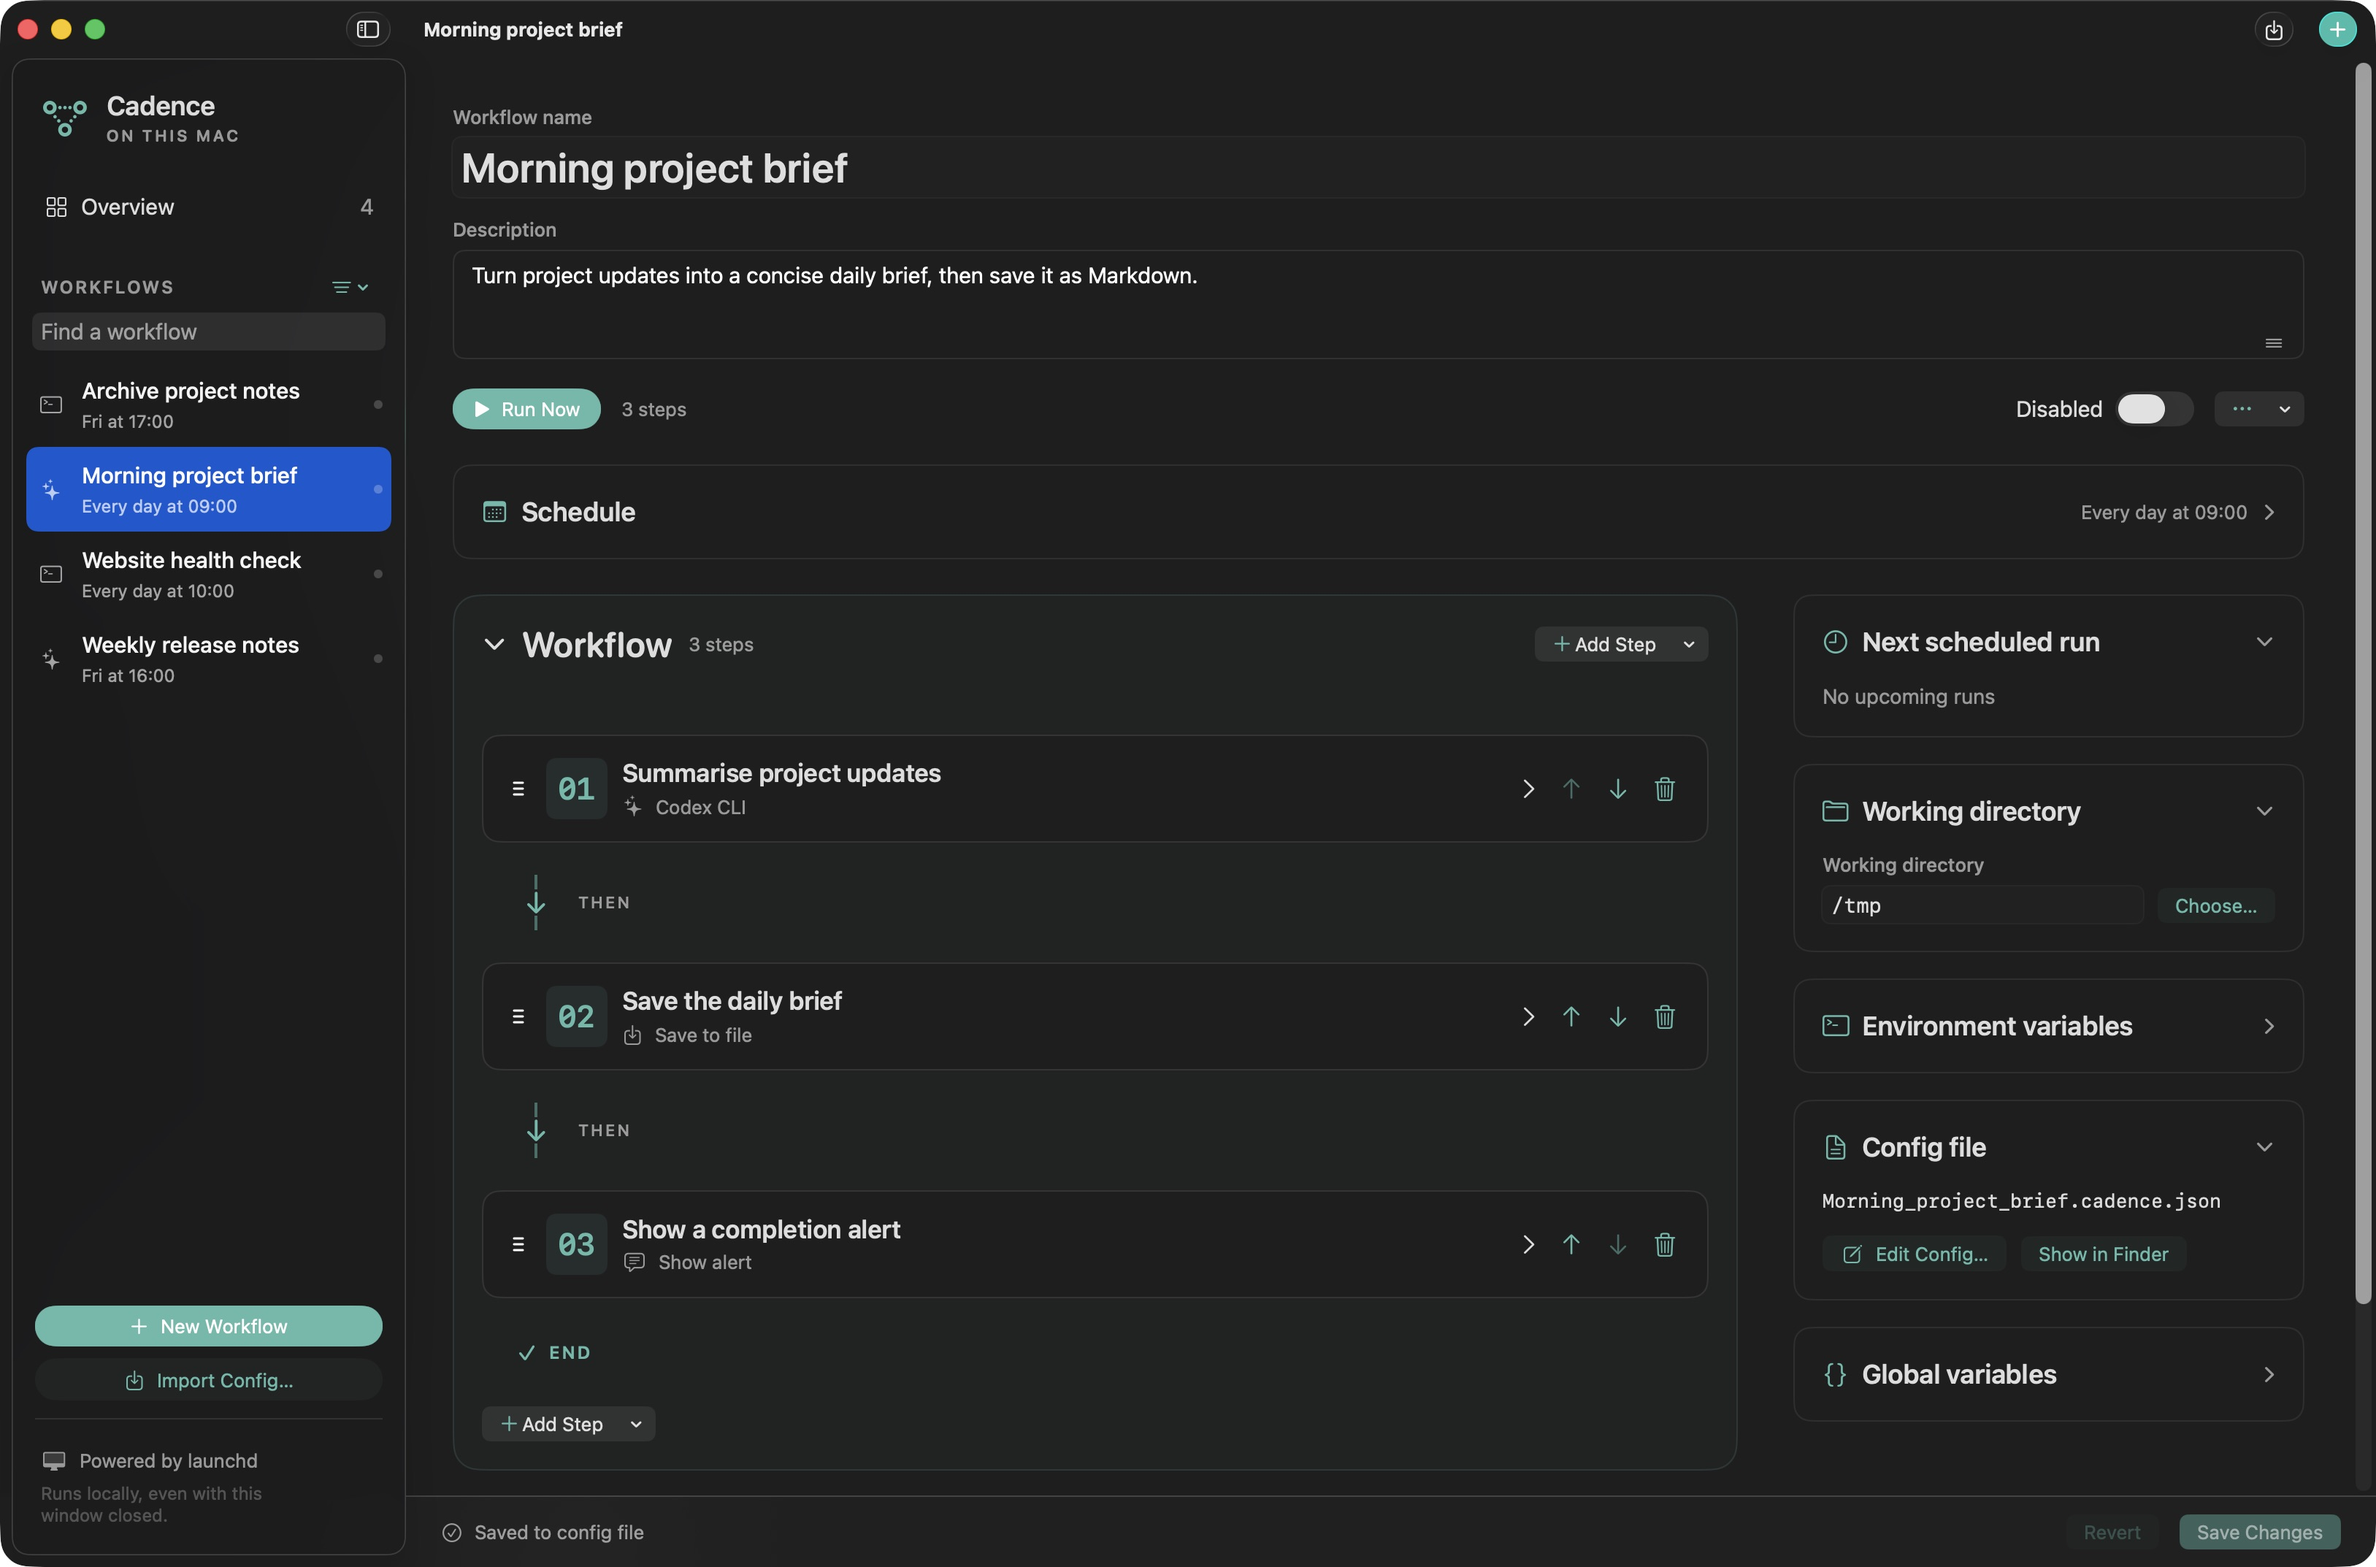
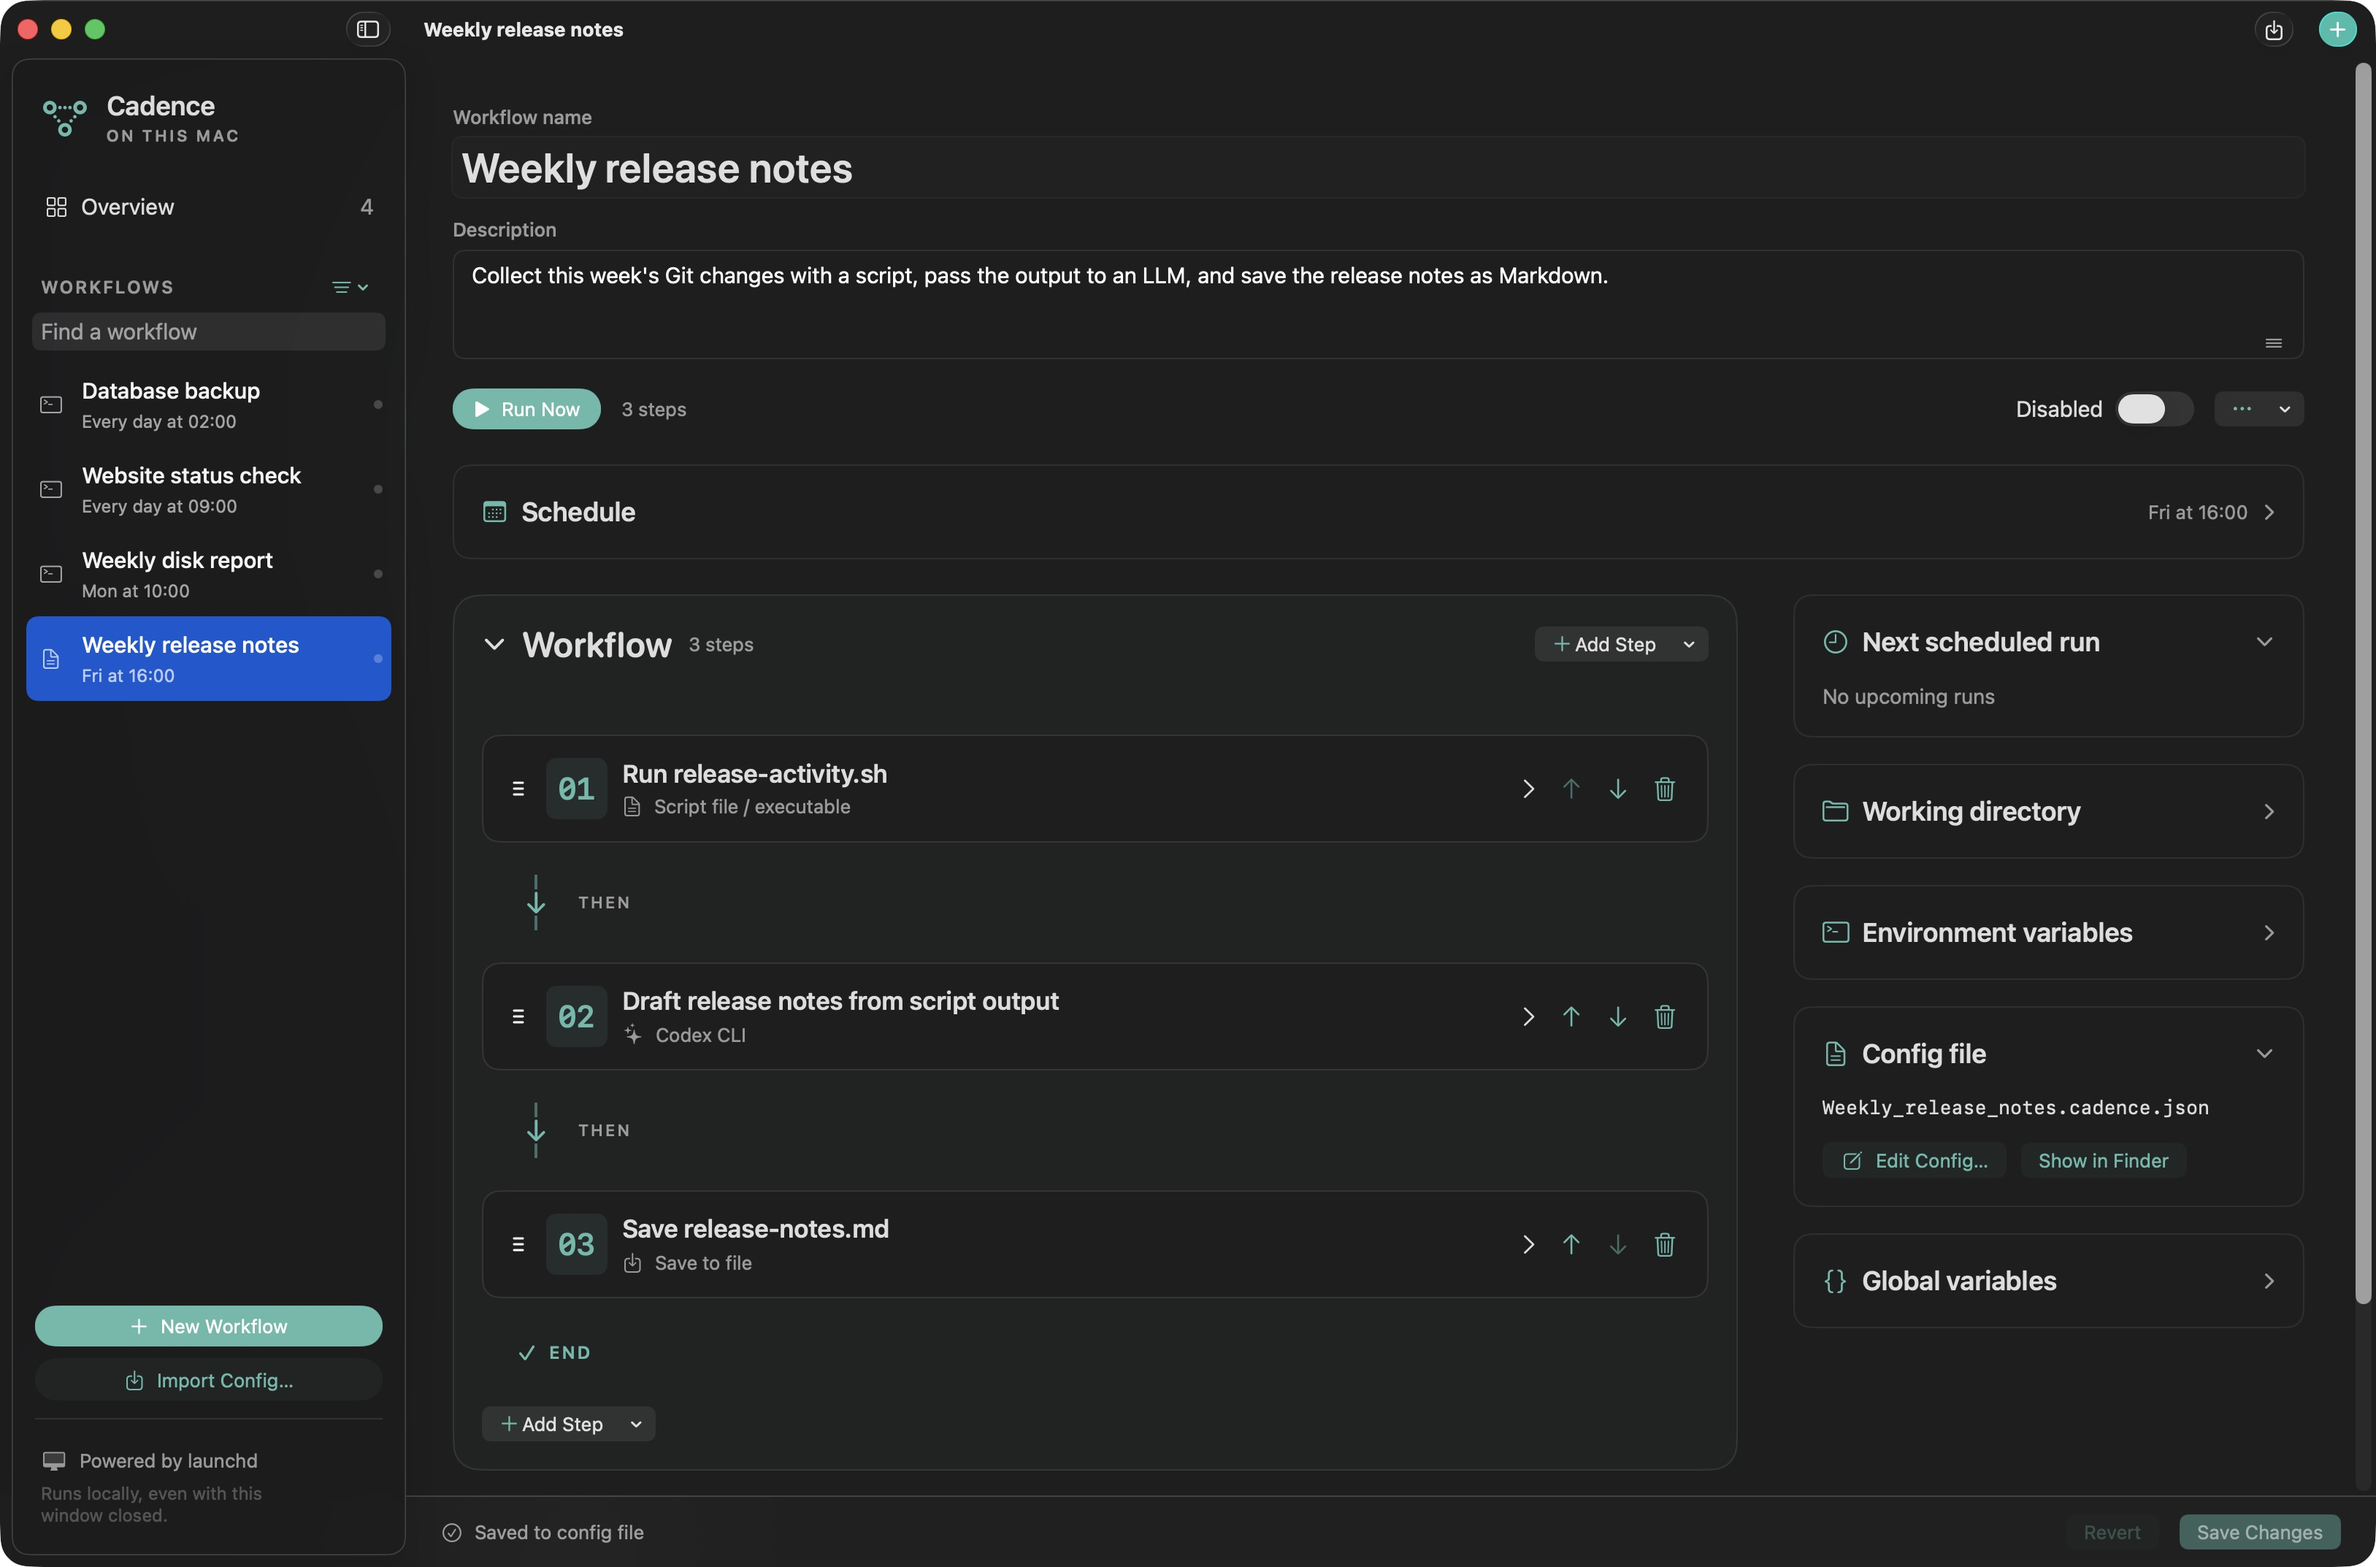
Show a script-to-LLM release notes workflow in the README

diff --git a/README.md b/README.md
@@ -6,9 +6,9 @@ Schedules local workflows with launchd. Requires macOS 14 or later. No third-par
 
 _Most of this could be done directly with launchd if you are comfortable enough with writing those scripts but this provides a nice abstraction on top including monitoring multiple workflows, and easier visualization/debugging._
 
-![Cadence workflow editor with an example daily project brief and its three steps](docs/images/cadence-workflow.jpg)
+![Cadence workflow that runs a Git activity script, passes its output to an LLM, and saves release notes as Markdown](docs/images/cadence-workflow.jpg)
 
-*Screenshot uses fictional demo workflows.*
+*Demo workflow: run a script to collect Git changes → draft release notes with an LLM → save the Markdown file. All workflows shown are fictional.*
 
 
 ## What it can do
